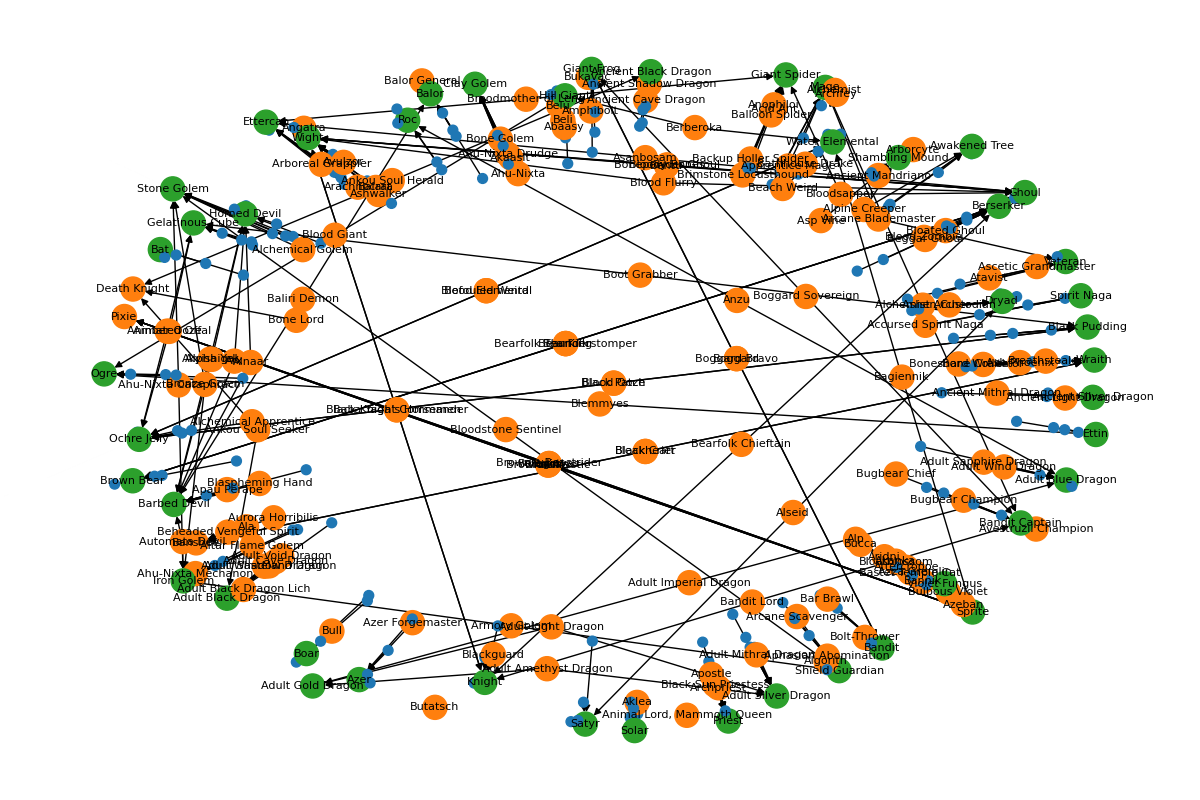
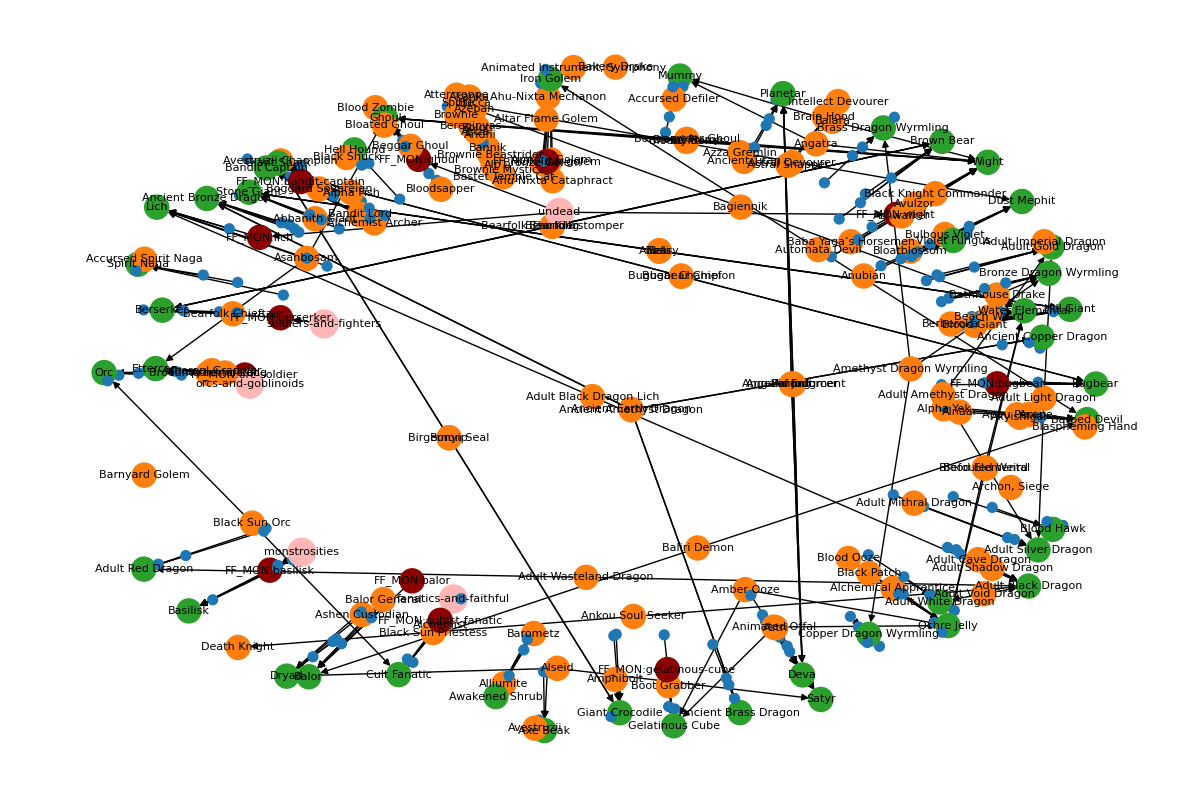
progress

Changed region(s): [[0.0617, 0.0625, 0.9558, 0.9375], [0.3392, 0.3125, 0.37, 0.3438], [0.2467, 0.5625, 0.2775, 0.5938]]

diff --git a/foe_foundry_search/graph/build_graph.py b/foe_foundry_search/graph/build_graph.py
@@ -8,7 +8,9 @@ import os
 
 import networkx as nx
 
+from foe_foundry.creatures import AllTemplates
 from foe_foundry.utils import name_to_key
+from foe_foundry_data.families import load_families
 from foe_foundry_search.documents import (
     iter_monster_docs,
     load_monster_doc_metas,
@@ -21,14 +23,16 @@ SRD_MAPPING_PATH = os.path.join(os.path.dirname(__file__), "monster_to_srd_a_b.j
 def build_graph():
     G = nx.DiGraph()
 
-    # 1. Extract DOC nodes (MonsterDocument)
+    issues = []
+
+    # Extract DOC nodes (MonsterDocument)
     for doc in iter_monster_docs():
         node_id = f"DOC:{doc.doc_id}"
         G.add_node(
             node_id, type="DOC", monster_key=doc.monster_key, id=node_id, text=doc.text
         )
 
-    # 2. Extract MON nodes (MonsterDocumentMeta)
+    # Extract MON nodes (MonsterDocumentMeta)
     metas = load_monster_doc_metas()  # dict[str, MonsterDocumentMeta]
     for key, meta in metas.items():
         node_id = f"MON:{key}"
@@ -38,14 +42,14 @@ def build_graph():
             id=key,
             name=meta.name,
             is_srd=meta.srd,
-            text=meta.description,
+            description=meta.description,
         )
 
-    # 3. Create DOC → MON edges (if document text mentions monster name)
+    # Create DOC → MON edges
     for doc in iter_monster_docs():
         if doc.monster_key not in metas:
-            print(
-                f"Warning: Document {doc.doc_id} references unknown monster {doc.monster_key}"
+            issues.append(
+                f"Document {doc.doc_id} references unknown monster {doc.monster_key}"
             )
             continue
 
@@ -57,7 +61,7 @@ def build_graph():
             relevancy=1.0,
         )
 
-    # 4. Create MON → MON edges using SRD mappings
+    # Create MON → MON edges using SRD mappings
     if os.path.exists(SRD_MAPPING_PATH):
         with open(SRD_MAPPING_PATH, "r") as f:
             srd_map = json.load(f)
@@ -78,15 +82,81 @@ def build_graph():
                 srd_node_id = f"MON:{srd_monster_key}"
                 if G.has_node(mon_node_id) and G.has_node(srd_node_id):
                     G.add_edge(mon_node_id, srd_node_id, type="similar")
+                else:
+                    if not G.has_node(mon_node_id):
+                        issues.append(
+                            f"SRD mapping {monster_name} → {srd_name} references unknown other monster {monster_key}"
+                        )
+                    if not G.has_node(srd_node_id):
+                        issues.append(
+                            f"SRD mapping {monster_name} → {srd_name} references unknown SRD monster {srd_monster_key}"
+                        )
 
-    return G
+    # Add FF_MON nodes
+    for template in AllTemplates:
+        for variant in template.variants:
+            for monster in variant.monsters:
+                node_id = f"FF_MON:{monster.key}"
+                G.add_node(
+                    node_id,
+                    type="FF_MON",
+                    monster_key=monster.key,
+                    template_key=template.key,
+                )
+
+                for srd_creature in monster.srd_creatures or []:
+                    srd_monster_key = name_to_key(srd_creature)
+                    srd_node_id = f"MON:{srd_monster_key}"
+
+                    if G.has_node(srd_node_id):
+                        G.add_edge(node_id, srd_node_id, type="implemented")
+                    else:
+                        issues.append(
+                            f"FF_MON {monster.key} references unknown SRD creature {srd_creature}"
+                        )
+
+                for other_monster_name, _ in (monster.other_creatures or {}).items():
+                    other_monster_key = name_to_key(other_monster_name)
+                    other_node_id = f"MON:{other_monster_key}"
+
+                    if G.has_node(other_node_id):
+                        G.add_edge(node_id, other_node_id, type="implemented")
+                    else:
+                        issues.append(
+                            f"FF_MON {monster.key} references unknown other creature {other_monster_name}"
+                        )
+
+    # Add FF_FAM nodes
+    for family in load_families():
+        node_id = f"FF_FAM:{family.key}"
+        G.add_node(
+            node_id,
+            type="FF_FAM",
+            family_key=family.key,
+        )
+
+        for monster in family.monsters:
+            monster_node_id = f"FF_MON:{monster.key}"
+            if G.has_node(monster_node_id):
+                G.add_edge(node_id, monster_node_id, type="member")
+            else:
+                issues.append(
+                    f"FF_FAM {family.key} references unknown FF_MON {monster.key}"
+                )
+
+    return G, issues
 
 
 def main():
-    G = build_graph()
+    G, issues = build_graph()
+
     print(
         f"Graph constructed with {G.number_of_nodes()} nodes and {G.number_of_edges()} edges."
     )
+
+    print(f"{len(issues)} issues found")
+    for issue in issues:
+        print(issue)
 
     # Visualization: sample 40 MON nodes and plot their 1st and 2nd degree neighbors
     try:
@@ -114,6 +184,42 @@ def main():
         for n1 in first_degree:
             nodes_to_plot.update(G.predecessors(n1))
             nodes_to_plot.update(G.successors(n1))
+
+        # Add all FF_MON nodes connected to the MON nodes we have so far
+        ff_mon_nodes = set()
+        for mon in nodes_to_plot:
+            if G.nodes[mon].get("type") == "MON":
+                # Find FF_MON nodes connected to this MON node
+                for pred in G.predecessors(mon):
+                    if G.nodes[pred].get("type") == "FF_MON":
+                        ff_mon_nodes.add(pred)
+                for succ in G.successors(mon):
+                    if G.nodes[succ].get("type") == "FF_MON":
+                        ff_mon_nodes.add(succ)
+        nodes_to_plot.update(ff_mon_nodes)
+
+        # Add all FF_FAM nodes connected to the FF_MON nodes we have so far
+        ff_fam_nodes = set()
+        for ff_mon in ff_mon_nodes:
+            for pred in G.predecessors(ff_mon):
+                if G.nodes[pred].get("type") == "FF_FAM":
+                    ff_fam_nodes.add(pred)
+            for succ in G.successors(ff_mon):
+                if G.nodes[succ].get("type") == "FF_FAM":
+                    ff_fam_nodes.add(succ)
+        nodes_to_plot.update(ff_fam_nodes)
+
+        # Add all DOC nodes connected to the MON nodes we have so far
+        doc_nodes = set()
+        for mon in nodes_to_plot:
+            if G.nodes[mon].get("type") == "MON":
+                for pred in G.predecessors(mon):
+                    if G.nodes[pred].get("type") == "DOC":
+                        doc_nodes.add(pred)
+                for succ in G.successors(mon):
+                    if G.nodes[succ].get("type") == "DOC":
+                        doc_nodes.add(succ)
+        nodes_to_plot.update(doc_nodes)
         subgraph = G.subgraph(nodes_to_plot)
 
         plt.figure(figsize=(12, 8))
@@ -127,6 +233,14 @@ def main():
                 node_colors.append("#1f77b4")
                 node_sizes.append(50)
                 # No label for DOC nodes
+            elif node_type == "FF_MON":
+                node_colors.append("#8B0000")  # dark red
+                node_sizes.append(300)
+                labels[n] = subgraph.nodes[n].get("name", n)
+            elif node_type == "FF_FAM":
+                node_colors.append("#FFB6B6")  # light red
+                node_sizes.append(400)
+                labels[n] = subgraph.nodes[n].get("family_key", n)
             else:
                 is_srd = subgraph.nodes[n].get("is_srd", False)
                 node_colors.append("#2ca02c" if is_srd else "#ff7f0e")

diff --git a/foe_foundry_search/graph/graph_prd.md b/foe_foundry_search/graph/graph_prd.md
@@ -7,11 +7,15 @@ This PRD describes the initial step for building the graph portion of the Foe Fo
 - **DOC**: Document nodes representing background RPG documents (SRD, blogs, sourcebooks, etc.)
   - Attributes: `id`, `title`, `text`
 - **MON**: Monster nodes representing published monster statblocks (SRD or 3rd party)
-  - Attributes: `id`, `name`, `is_srd`, `sources`, `text`
+  - Attributes: `id`, `name`, `is_srd`, `description`
+- **FF_MON**: nodes representing Foe Foundry monsters
+  - Attributes: `monster_key`, `template_key`
 
 ## Edge Types
 - **DOC → MON**: Document is about/defines this monster. Attribute: `relevancy` ∈ [0, 1]
 - **MON → MON (SRD mapping)**: Mapping from MON node to corresponding SRD MON node, as defined in `monster_to_srd_a_b.json`.
+- **MON → FF_MON**: Mapping representing an alias or equivalency between Foe Foundry Monsters as 3rd party or published monsters
+- **FF_MON → FF_MON**: Mapping representing a monster being part of a monster family
 
 ## Data Sources
 - Documents: `foe_foundry_search.documents` (DOC nodes)
@@ -22,21 +26,8 @@ This PRD describes the initial step for building the graph portion of the Foe Fo
 ## Implementation Steps
 1. **Extract DOC nodes** from the documents module.
 2. **Extract MON nodes** from MonsterDocument and MonsterDocumentMeta.
-3. **Create DOC → MON edges** based on document-to-monster relationships.
-4. **Create MON ↔ MON edges** for similar monsters (family, variants).
-5. **Create MON → MON edges** using SRD mappings from `monster_to_srd_a_b.json`.
-6. **Build the graph** using NetworkX, with appropriate node and edge attributes.
-
-## Out of Scope
-- FF_MON nodes and edges (to be added in future iterations).
-- Query processing, scoring, and propagation logic.
-
-## Success Criteria
-- NetworkX graph is constructed with DOC and MON nodes, and all relevant edges.
-- Graph can be serialized and inspected for correctness.
-
----
-
-**Next Steps:**
-- Implement Python code to build the graph as described.
-- Validate graph structure and edge attributes.
+3. **Create FF_MON nodes** using
+4. **Create DOC → MON edges** based on document-to-monster relationships.
+5. **Create MON ↔ MON edges** for similar monsters (family, variants).
+6. **Create MON → MON edges** using SRD mappings from `monster_to_srd_a_b.json`.
+7. **Build the graph** using NetworkX, with appropriate node and edge attributes.
